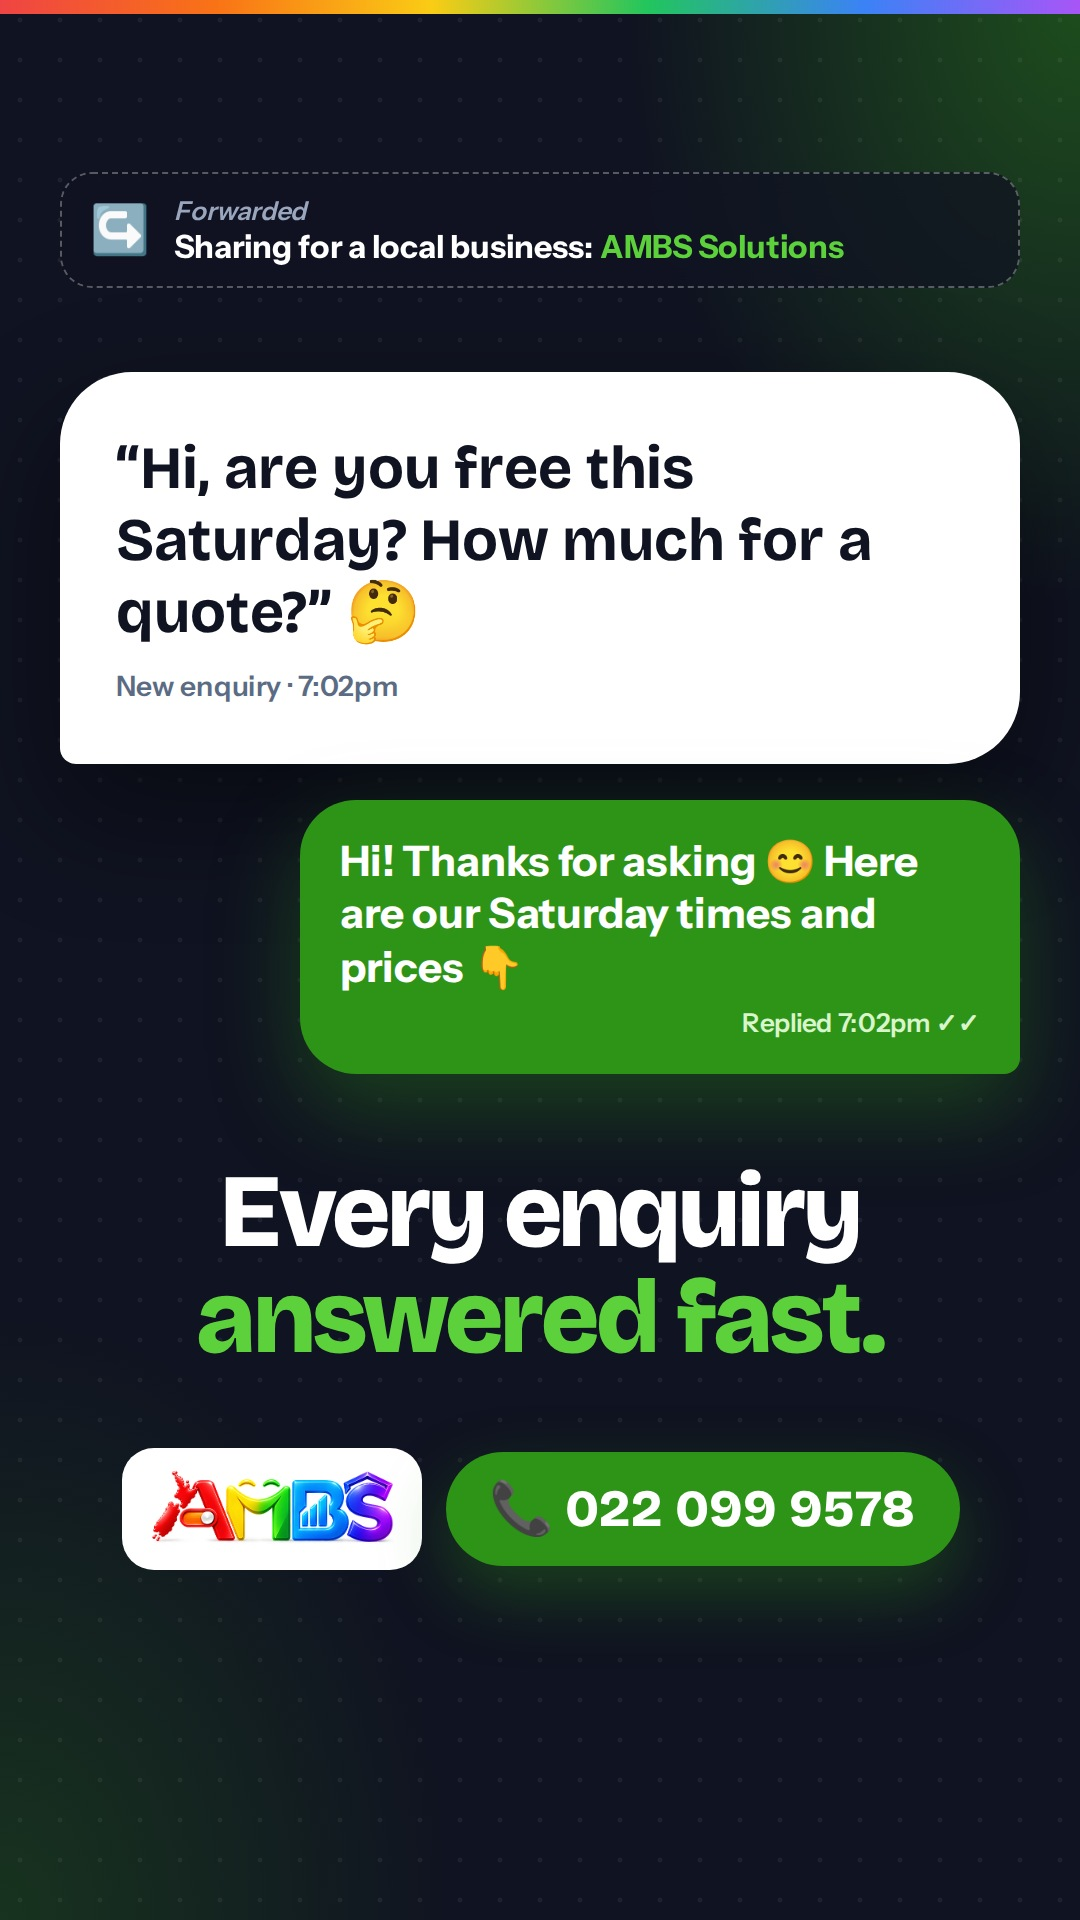
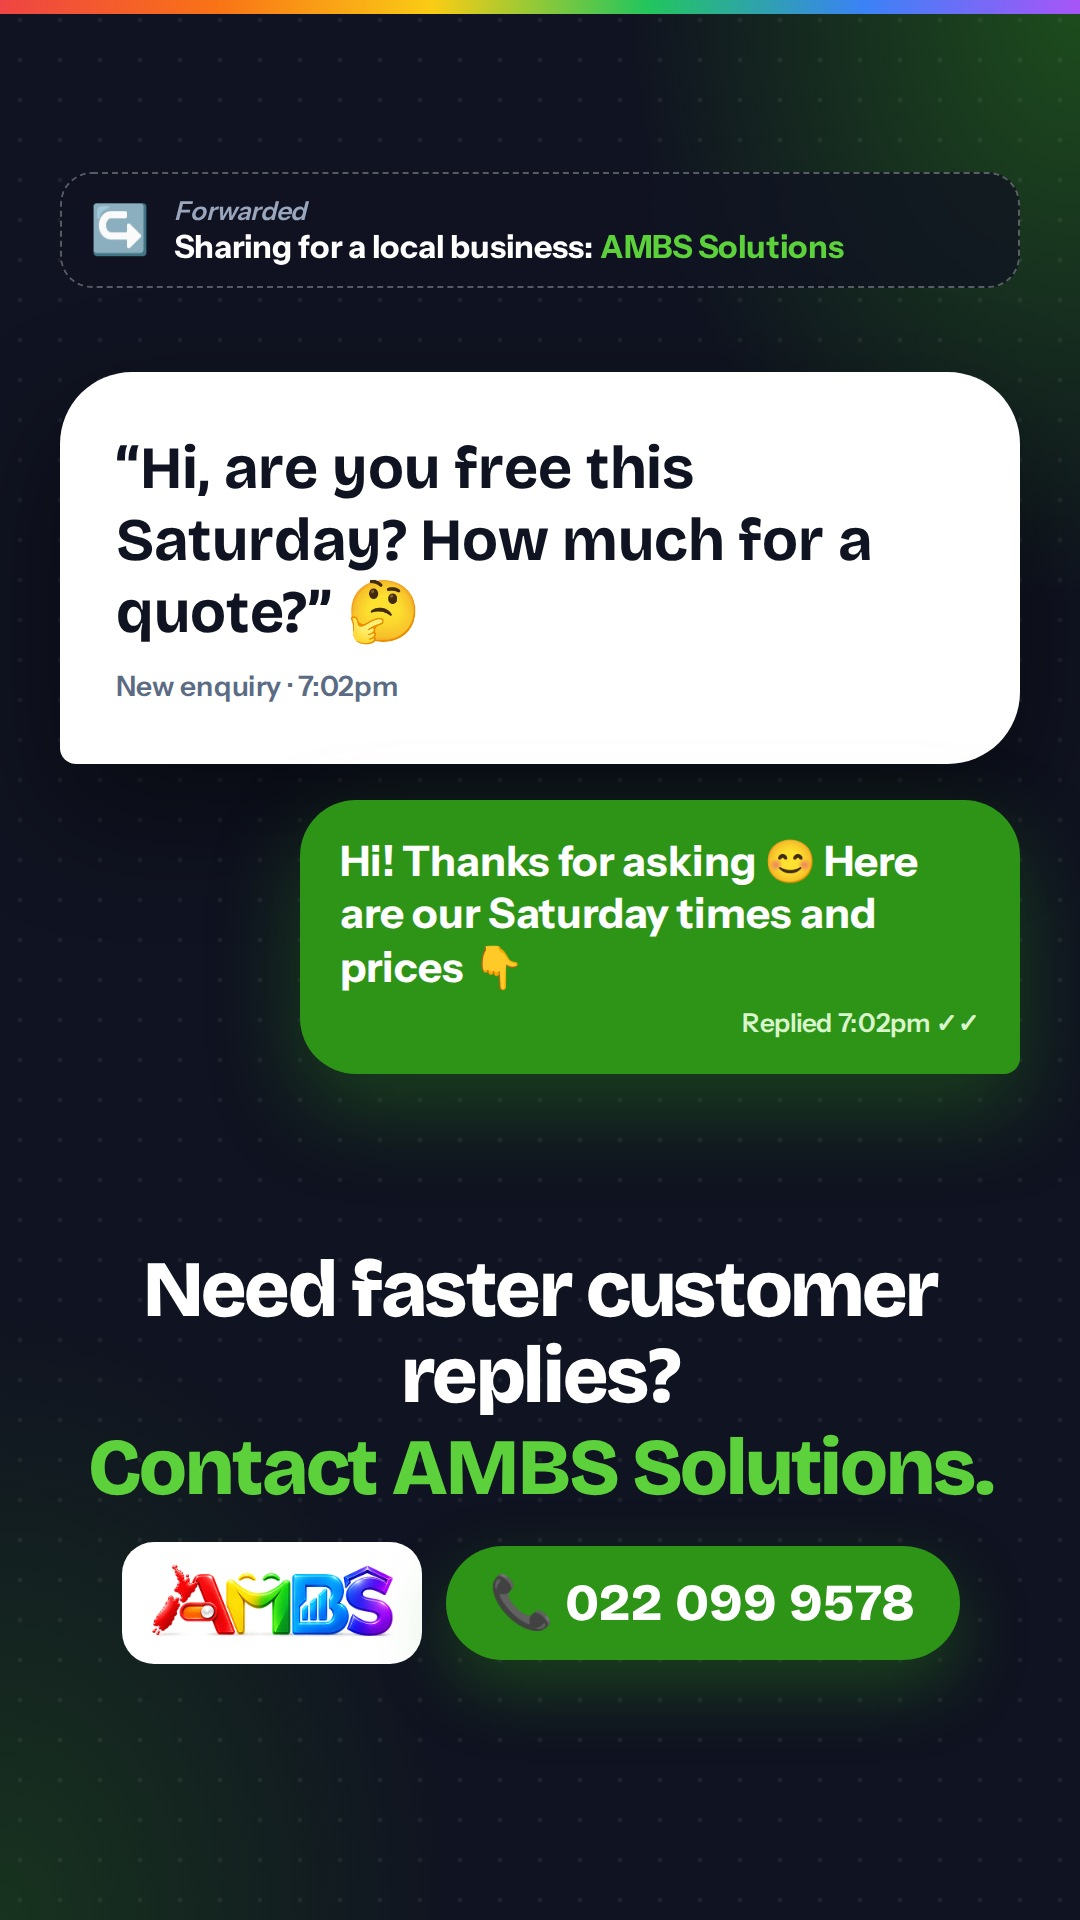
Shared statuses: simple 'Need X? Contact AMBS Solutions.' headlines
Claude-Session: https://claude.ai/code/session_01UEFq6Row7p6wmTAvf3EyaN

Changed region(s): [[0.0611, 0.5938, 0.9167, 0.875]]

diff --git a/marketing-videos/posters/22b-invoices.html b/marketing-videos/posters/22b-invoices.html
@@ -3,24 +3,23 @@
 <link rel="stylesheet" href="../engine/base.css"><link rel="stylesheet" href="_endorse.css"><link rel="stylesheet" href="_share2.css">
 <style>
   h1 { position: absolute; left: 30px; right: 30px; top: 170px; text-align: center; font-size: 54px; }
-  .rc { position: absolute; left: 50%; top: 300px; width: 400px; margin-left: -200px; background: #fff; color: var(--ink); padding: 22px 24px 30px;
+  .rc { position: absolute; left: 50%; top: 186px; width: 400px; margin-left: -200px; background: #fff; color: var(--ink); padding: 22px 24px 30px;
     font-family: "Courier New", monospace; box-shadow: 0 24px 60px rgba(0,0,0,.5);
     -webkit-mask: radial-gradient(10px at 50% 100%, transparent 98%, #000) 50% 100% / 26px 100% repeat-x; }
   .rc .t { text-align: center; font-weight: 700; font-size: 20px; letter-spacing: .1em; }
   .rc .ln { margin-top: 12px; border-top: 2px dashed #c8ced8; padding-top: 10px; display: grid; gap: 12px; font-size: 21px; font-weight: 700; }
   .rc .ln div { display: flex; justify-content: space-between; }
   .rc .tot { margin-top: 12px; border-top: 2px dashed #c8ced8; padding-top: 12px; display: flex; justify-content: space-between; font-size: 28px; font-weight: 800; }
-  .stamp { position: absolute; left: 50%; top: 572px; margin-left: -78px; padding: 8px 16px; border: 4px solid #2E9418; color: #2E9418; border-radius: 12px;
+  .stamp { position: absolute; left: 50%; top: 462px; margin-left: -78px; padding: 8px 16px; border: 4px solid #2E9418; color: #2E9418; border-radius: 12px;
     font-size: 30px; font-weight: 800; rotate: -14deg; background: rgba(255,255,255,.85); font-family: "Bricolage Grotesque", sans-serif; }
   .bt { position: absolute; left: 30px; right: 30px; top: 680px; display: flex; justify-content: center; align-items: center; gap: 12px; }</style></head><body>
 <div id="frame">
   <div class="stripe"></div>
   <div class="fwd"><div class="ar">↪</div><div><i>Forwarded</i><b>Sharing for a local business: <span>AMBS Solutions</span></b></div></div>
-
-  <h1 class="hd">Invoices that <em>chase themselves.</em></h1>
   <div class="rc"><div class="t">INVOICE #1042</div>
     <div class="ln"><div><span>Job completed</span><span>✓</span></div><div><span>Invoice emailed</span><span>✓</span></div><div><span>Reminder sent</span><span>✓</span></div></div>
     <div class="tot"><span>TOTAL</span><span>$1,250</span></div></div>
   <div class="stamp">PAID ✓</div>
-  <div class="bt"><img class="lg" src="../assets/ambs-logo.png" alt="AMBS"><div class="num hd">📞 022 099 9578</div></div>
+  <div class="foot"><h1 class="hd">Need help with quotes &amp; invoices?<br><em>Contact AMBS Solutions.</em></h1><div class="bt"><img class="lg" src="../assets/ambs-logo.png" alt="AMBS"><div class="num hd">📞 022 099 9578</div></div>
+</div>
 </div></body></html>

diff --git a/marketing-videos/posters/22a-websites.html b/marketing-videos/posters/22a-websites.html
@@ -2,7 +2,7 @@
 <html lang="en-NZ"><head><meta charset="utf-8"><title>Poster — shared status: websites</title>
 <link rel="stylesheet" href="../engine/base.css"><link rel="stylesheet" href="_endorse.css"><link rel="stylesheet" href="_share2.css">
 <style>
-  .ph { position: absolute; left: 50%; top: 170px; width: 280px; height: 470px; margin-left: -140px; border-radius: 40px; background: #000; padding: 9px; rotate: -6deg;
+  .ph { position: absolute; left: 50%; top: 170px; width: 260px; height: 410px; margin-left: -130px; border-radius: 40px; background: #000; padding: 9px; rotate: -6deg;
     box-shadow: 0 30px 70px rgba(0,0,0,.6), 0 0 0 2px #2a2f3d; }
   .ph .s { height: 100%; border-radius: 32px; overflow: hidden; background: #fff; color: var(--ink); }
   .ph .u { padding: 30px 14px 8px; font-size: 12px; font-weight: 700; color: #5B6B84; text-align: center; }
@@ -22,6 +22,6 @@
   <div class="glow"></div>
   <div class="ph"><div class="s"><div class="u">🔒 yourbusiness.co.nz</div><div class="h"><b>Open 24/7,<br>even when you’re not</b><span>📞 Call now</span></div>
     <div class="st"><em>★★★★★</em> Google reviews</div><div class="rw"></div><div class="rw"></div></div></div>
-  <div class="bt"><h1 class="hd">Websites that <em>bring in calls.</em></h1>
+  <div class="foot"><h1 class="hd">Need a website?<br><em>Contact AMBS Solutions.</em></h1>
     <div class="row"><img class="lg" src="../assets/ambs-logo.png" alt="AMBS"><div class="num hd">📞 022 099 9578</div></div></div>
 </div></body></html>

diff --git a/marketing-videos/posters/22d-replies.html b/marketing-videos/posters/22d-replies.html
@@ -17,6 +17,6 @@
 
   <div class="bb"><div class="q">“Hi, are you free this Saturday? How much for a quote?” <span class="emoji">🤔</span></div><small>New enquiry · 7:02pm</small></div>
   <div class="rp">Hi! Thanks for asking 😊 Here are our Saturday times and prices 👇<small>Replied 7:02pm ✓✓</small></div>
-  <h1 class="hd">Every enquiry <em>answered fast.</em></h1>
-  <div class="bt"><img class="lg" src="../assets/ambs-logo.png" alt="AMBS"><div class="num hd">📞 022 099 9578</div></div>
+  <div class="foot"><h1 class="hd">Need faster customer replies?<br><em>Contact AMBS Solutions.</em></h1><div class="bt"><img class="lg" src="../assets/ambs-logo.png" alt="AMBS"><div class="num hd">📞 022 099 9578</div></div>
+</div>
 </div></body></html>

diff --git a/marketing-videos/posters/_share2.css b/marketing-videos/posters/_share2.css
@@ -11,3 +11,8 @@
 .wl { font-size: 18px; font-weight: 700; color: var(--mu); }
 .wl b { color: #fff; }
 .lg { width: 150px; padding: 8px 14px; border-radius: 16px; background: #fff; }
+/* headline + contact row sit together, anchored just above WhatsApp's reply box, growing upwards */
+.foot { position: absolute; left: 26px; right: 26px; bottom: 128px; z-index: 4; display: flex; flex-direction: column; align-items: center; gap: 16px; text-align: center; }
+.foot h1 { position: static !important; font-size: 40px !important; line-height: 1.06; }
+.foot h1 em { display: block; margin-top: 4px; white-space: nowrap; }
+.foot .bt, .foot .row { position: static !important; margin: 0 !important; display: flex; justify-content: center; align-items: center; gap: 12px; }

diff --git a/marketing-videos/posters/22c-bookings.html b/marketing-videos/posters/22c-bookings.html
@@ -22,6 +22,6 @@
     <div class="n"><div class="ic emoji">🔔</div><div><b>Reminder sent</b><span>“See you tomorrow at 2pm, Tom”</span></div><small>9:30</small></div>
     <div class="n"><div class="ic emoji">✅</div><div><b>Booking confirmed</b><span>Mere replied YES</span></div><small>9:12</small></div>
   </div>
-  <h1 class="hd">Bookings in. <em>Fewer no‑shows.</em></h1>
-  <div class="bt"><img class="lg" src="../assets/ambs-logo.png" alt="AMBS"><div class="num hd">📞 022 099 9578</div></div>
+  <div class="foot"><h1 class="hd">Need online bookings?<br><em>Contact AMBS Solutions.</em></h1><div class="bt"><img class="lg" src="../assets/ambs-logo.png" alt="AMBS"><div class="num hd">📞 022 099 9578</div></div>
+</div>
 </div></body></html>

diff --git a/marketing-videos/posters/22f-dashboards.html b/marketing-videos/posters/22f-dashboards.html
@@ -22,6 +22,6 @@
     <path d="M0 160 L70 140 L140 150 L210 110 L280 120 L350 80 L420 70 L490 30 L540 20" fill="none" stroke="#5cd13c" stroke-width="5" stroke-linejoin="round"/>
     <circle cx="490" cy="30" r="9" fill="#fff" stroke="#5cd13c" stroke-width="5"/></svg>
   <div class="eg">example figures</div>
-  <h1 class="hd">Your numbers, <em>every week.</em></h1>
-  <div class="bt"><img class="lg" src="../assets/ambs-logo.png" alt="AMBS"><div class="num hd">📞 022 099 9578</div></div>
+  <div class="foot"><h1 class="hd">Need a business dashboard?<br><em>Contact AMBS Solutions.</em></h1><div class="bt"><img class="lg" src="../assets/ambs-logo.png" alt="AMBS"><div class="num hd">📞 022 099 9578</div></div>
+</div>
 </div></body></html>

diff --git a/marketing-videos/posters/22e-apps.html b/marketing-videos/posters/22e-apps.html
@@ -23,7 +23,6 @@
     <div class="ap"><i></i>Music</div><div class="ap"><i></i>Wallet</div><div class="ap"><i></i>Weather</div><div class="ap"><i></i>Camera</div>
   </div>
   <div class="tp">↑ your logo, on every phone</div>
-  <h1 class="hd">Your own app for <em>staff &amp; customers.</em></h1>
-  <div class="lead2">Jobs, photos, invoices and approvals in one place.</div>
-  <div class="bt"><div class="num hd">📞 022 099 9578 · ambs.co.nz</div></div>
+  <div class="foot"><h1 class="hd">Need an app for your business?<br><em>Contact AMBS Solutions.</em></h1><div class="bt"><div class="num hd">📞 022 099 9578 · ambs.co.nz</div></div>
+</div>
 </div></body></html>
